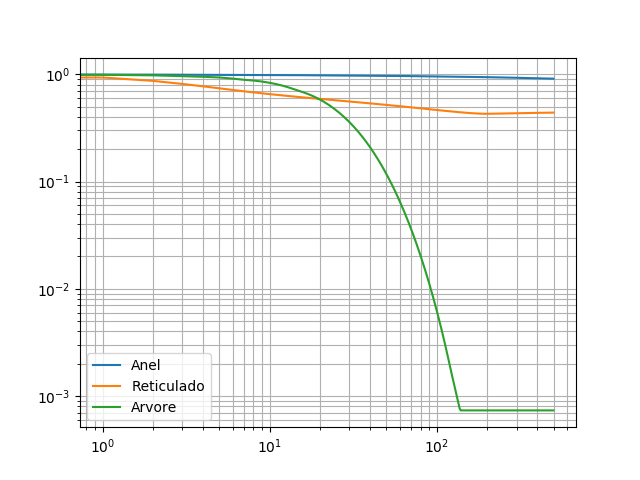
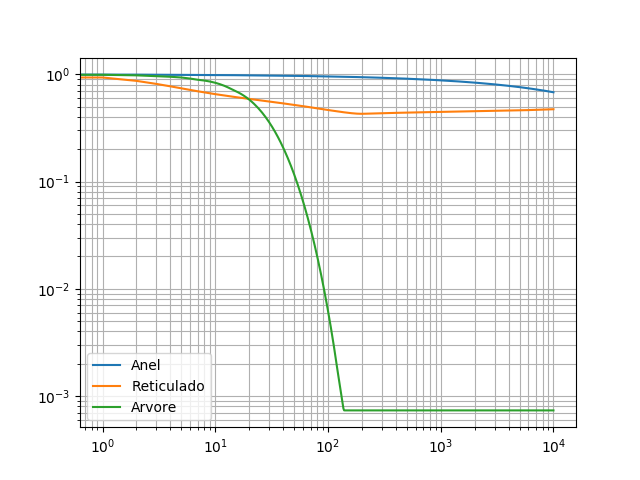
adicionando o sys para a submissao

diff --git a/lista4/questao3.py b/lista4/questao3.py
@@ -1,3 +1,5 @@
+#!/usr/bin/env python3
+
 import math
 from numpy import dot as mult
 from numpy import array as array
@@ -14,7 +16,7 @@ def totalVarDist(alpha,beta):
 
 n = 1024
 sqr = int(math.sqrt(n))
-mixtureTime = 500
+mixtureTime = 10000
 pi0 = array([1] + [0 for i in range(n-1)])
 
 ################## ANEL ###########################
@@ -132,9 +134,6 @@ for t in range(mixtureTime-1):
 
     piTArv = piTArv.dot(pArv)
     resArv.append(totalVarDist(piTArv,piArv))
-
-print(piTAnel)
-print(resAnel)
 
 plt.grid(True,which="both",ls="-")
 plt.loglog(range(mixtureTime), resAnel,label='Anel')

diff --git a/lista4/questao4.py b/lista4/questao4.py
@@ -1,4 +1,7 @@
+#!/usr/bin/env python3
+
 import math
+from sys import argv
 from numpy import dot as mult
 from numpy import array as array
 from matplotlib import pyplot as plt
@@ -12,7 +15,7 @@ def totalVarDist(alpha,beta):
     else:
         print("Arrays length does not match!")
 #[[226, 3634,58158], [77, 383,1694], [31, 76,125]]
-N = [256,1024]#[10,50,100]#,300,700,1000,3000,5000,10000]
+N = [int(argv[1])]#[256,1024]#[10,50,100]#,300,700,1000,3000,5000,10000]
 T = [[],[],[]]
 epsilon=0.0001
 
